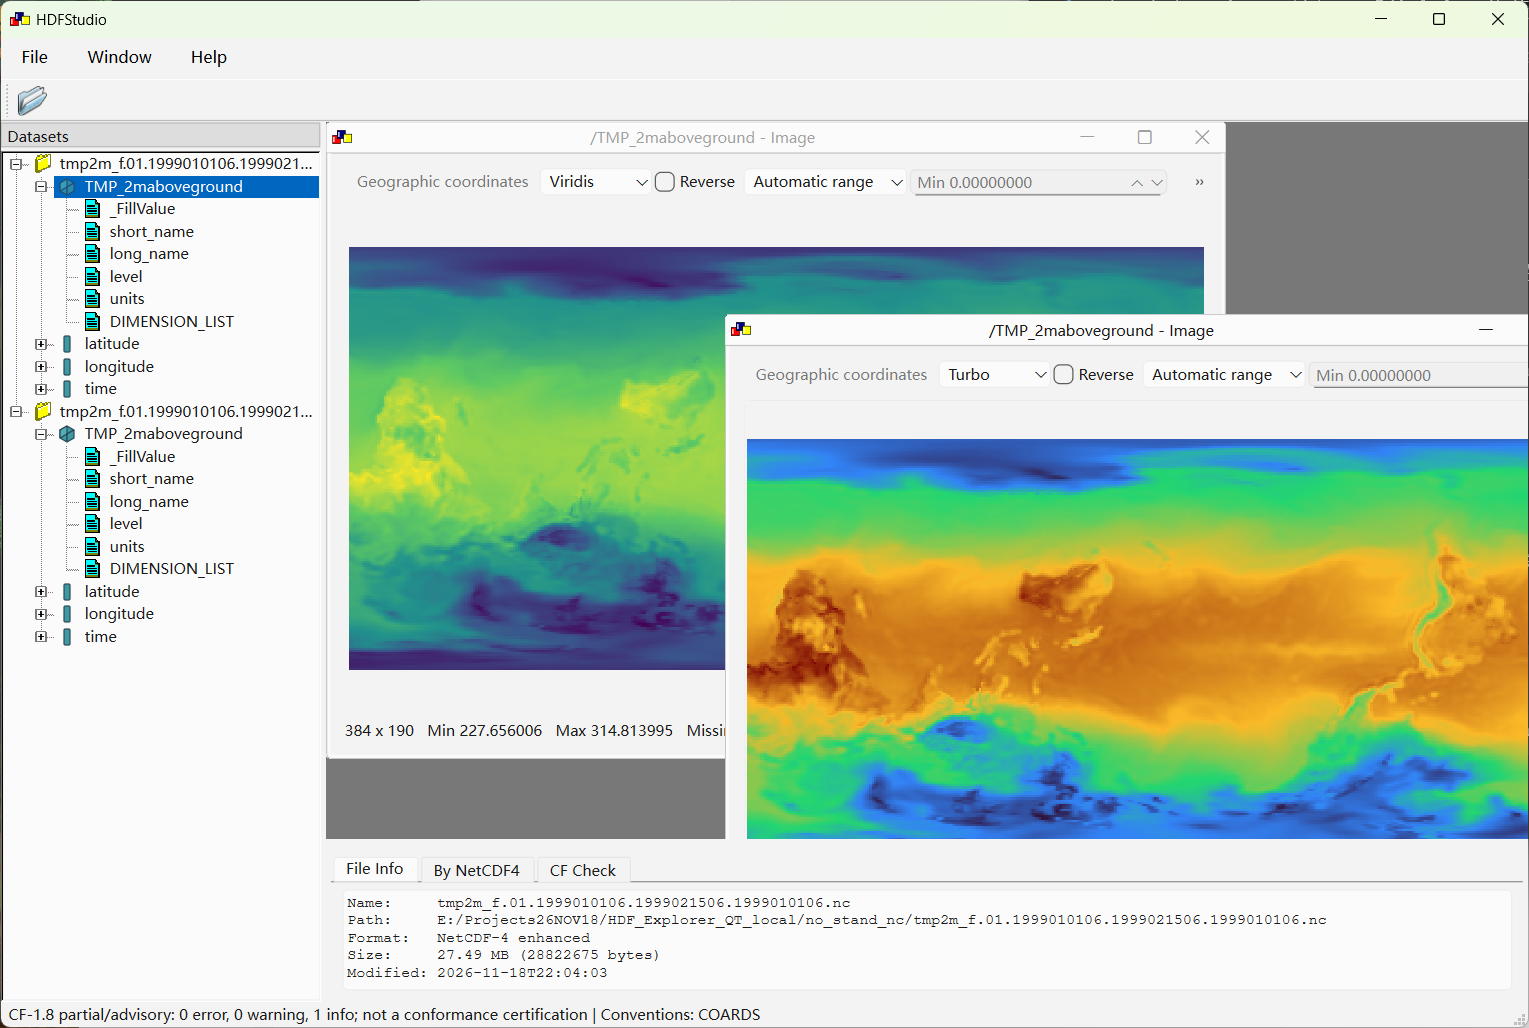
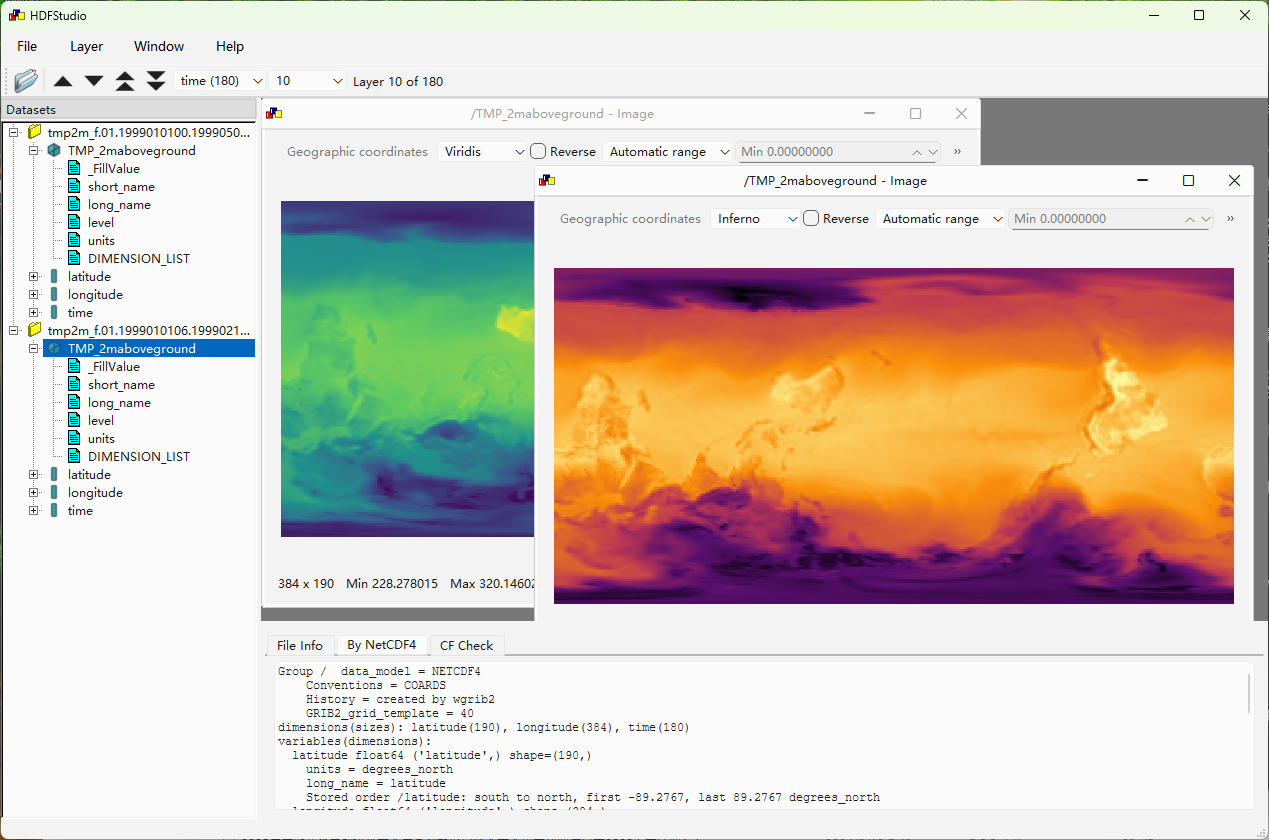
README screenshot: layer toolbar

diff --git a/README_CN.md b/README_CN.md
@@ -12,9 +12,9 @@
 
 HDFStudio 是面向气象、气候与地球科学的 Windows 桌面 **NetCDF 查看器**与 **HDF5 浏览器**，免费开源。打开一个 `.nc`、`.nc4`、`.h5` 或 `.hdf5` 文件，即可浏览组、变量与属性，在表格中查看数值，把二维切片画成图像，按文件自带的日历把时间坐标解码成真实日期，并检查 CF 元信息，全程不需要写代码。
 
-![HDFStudio 同时打开两个 NetCDF 文件、两个不同调色板的图像视图以及文件信息面板](docs/screenshot-main.png)
+![HDFStudio 打开两个 NetCDF 文件，层工具栏停在 time 第 10 层（共 180 层），两个图像视图分别为 Viridis 与 Inferno，底部为 By NetCDF4 报告](docs/screenshot-main.png)
 
-*两个 NetCDF 文件并排打开：2 米气温分别用 Viridis 与 Turbo 调色板绘制；左侧是变量树，底部是 File Info / By NetCDF4 / CF Check 面板。*
+*同时打开两个 NetCDF 文件：2 米气温分别用 Viridis 与 Inferno 调色板绘制；打开按钮后的层工具栏正在翻 `time`（Layer 10 of 180）；左侧是变量树，底部是 By NetCDF4 报告。*
 
 ## 🤔 为什么用 HDFStudio
 

diff --git a/README.md b/README.md
@@ -15,10 +15,10 @@ meteorology, climate and earth-science work. Open a `.nc`, `.nc4`, `.h5` or `.hd
 groups, variables and attributes, read values in a table, view 2-D slices as images, decode time
 coordinates into real dates, and check CF metadata conventions, all without writing code.
 
-![HDFStudio showing two NetCDF files, two image views with different color palettes, and the file information panel](docs/screenshot-main.png)
+![HDFStudio with two NetCDF files, the layer toolbar at time layer 10 of 180, two image views in Viridis and Inferno, and the By NetCDF4 panel](docs/screenshot-main.png)
 
-*Two NetCDF files open side by side: 2-metre temperature rendered with the Viridis and Turbo palettes,
-the dataset tree on the left, and the File Info / By NetCDF4 / CF Check panel at the bottom.*
+*Two NetCDF files open: 2-metre temperature in the Viridis and Inferno palettes, the layer toolbar after
+Open stepping `time` (Layer 10 of 180), the dataset tree on the left, and the By NetCDF4 report at the bottom.*
 
 ## 🤔 Why HDFStudio?
 
